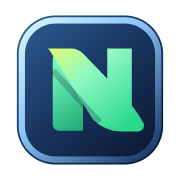
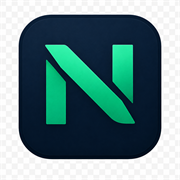
Use provided Nofida assets and remove dashboard card overlay

diff --git a/branding/brand/nofida-brand.css b/branding/brand/nofida-brand.css
@@ -130,7 +130,7 @@ a[href="/"].main_ui_main__logo-link::before {
   display: block !important;
   width: 156px !important;
   height: 36px !important;
-  background-image: url("/nofida/brand/logo.svg?v=__NOFIDA_ASSET_TAG__") !important;
+  background-image: url("/nofida/brand/logo.png?v=__NOFIDA_ASSET_TAG__") !important;
   background-repeat: no-repeat !important;
   background-position: left center !important;
   background-size: contain !important;
@@ -155,7 +155,7 @@ a[href="/"].main_ui_main__logo-link::before {
   min-width: 34px !important;
   height: 34px !important;
   min-height: 34px !important;
-  background-image: url("/nofida/brand/icon.svg?v=__NOFIDA_ASSET_TAG__") !important;
+  background-image: url("/nofida/brand/icon.png?v=__NOFIDA_ASSET_TAG__") !important;
   background-repeat: no-repeat !important;
   background-position: center !important;
   background-size: 100% 100% !important;

diff --git a/branding/ai-core/nofida-ai-core.js b/branding/ai-core/nofida-ai-core.js
@@ -310,23 +310,9 @@
   }
 
   function updateDashboardPosition() {
-    if (!isDashboardRoute()) {
+    if (state.els.dashboard) {
       state.els.dashboard.hidden = true;
-      return;
     }
-
-    var anchor = document.querySelector(GRID_SELECTOR) ||
-      document.querySelector(DASHBOARD_SELECTOR);
-    if (!anchor) {
-      state.els.dashboard.hidden = true;
-      return;
-    }
-
-    var rect = anchor.getBoundingClientRect();
-    state.els.dashboard.hidden = false;
-    state.els.dashboard.style.setProperty("--cards-left", window.scrollX + rect.left + "px");
-    state.els.dashboard.style.setProperty("--cards-top", window.scrollY + Math.max(rect.top, 148) + "px");
-    state.els.dashboard.style.setProperty("--cards-width", Math.max(rect.width, 280) + "px");
   }
 
   function ensureLibrariesExpanded() {
